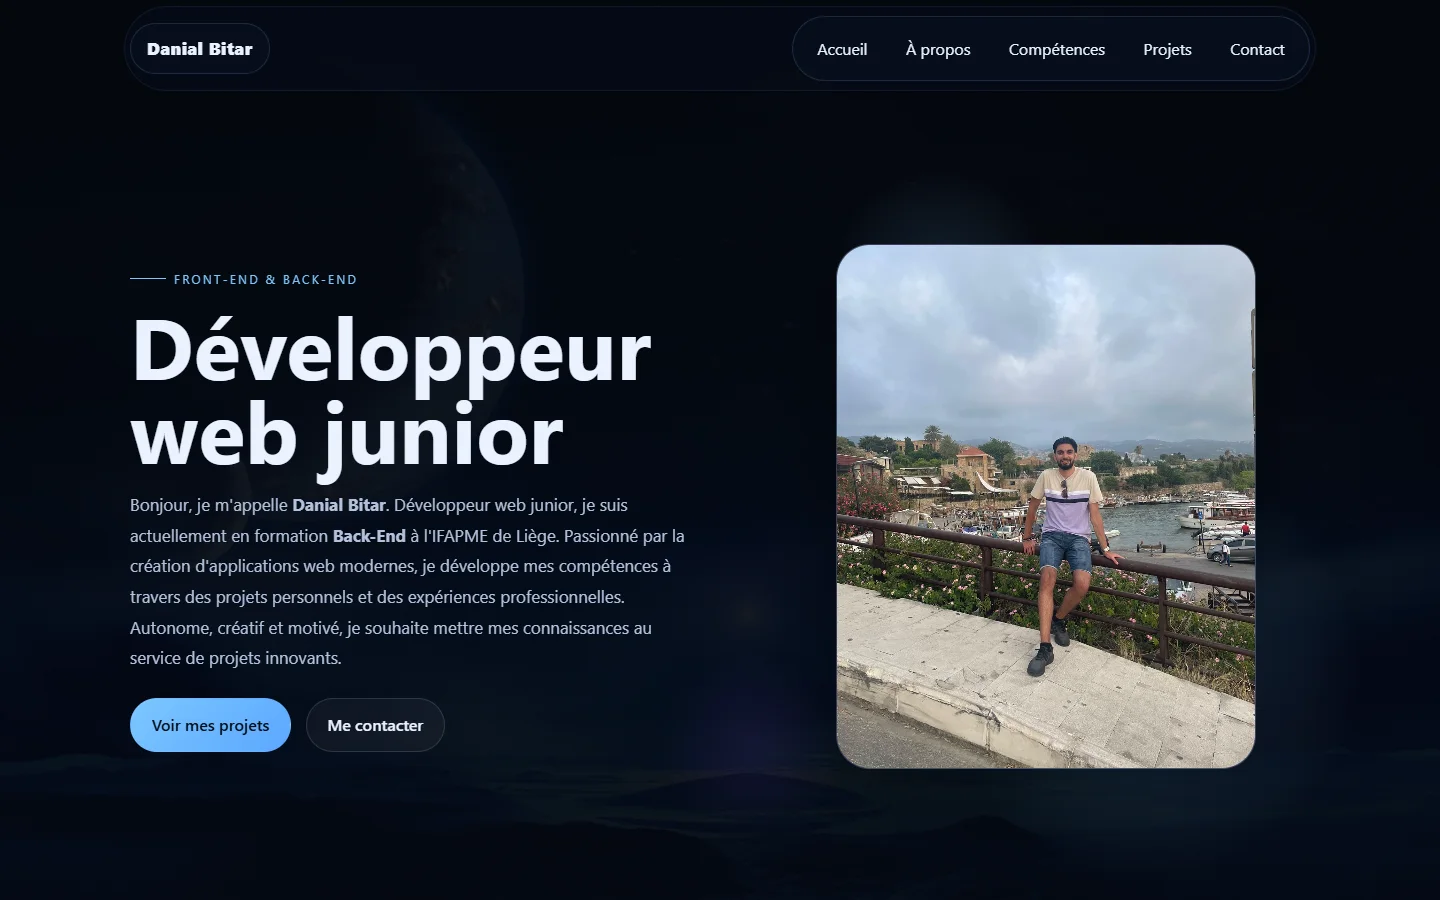
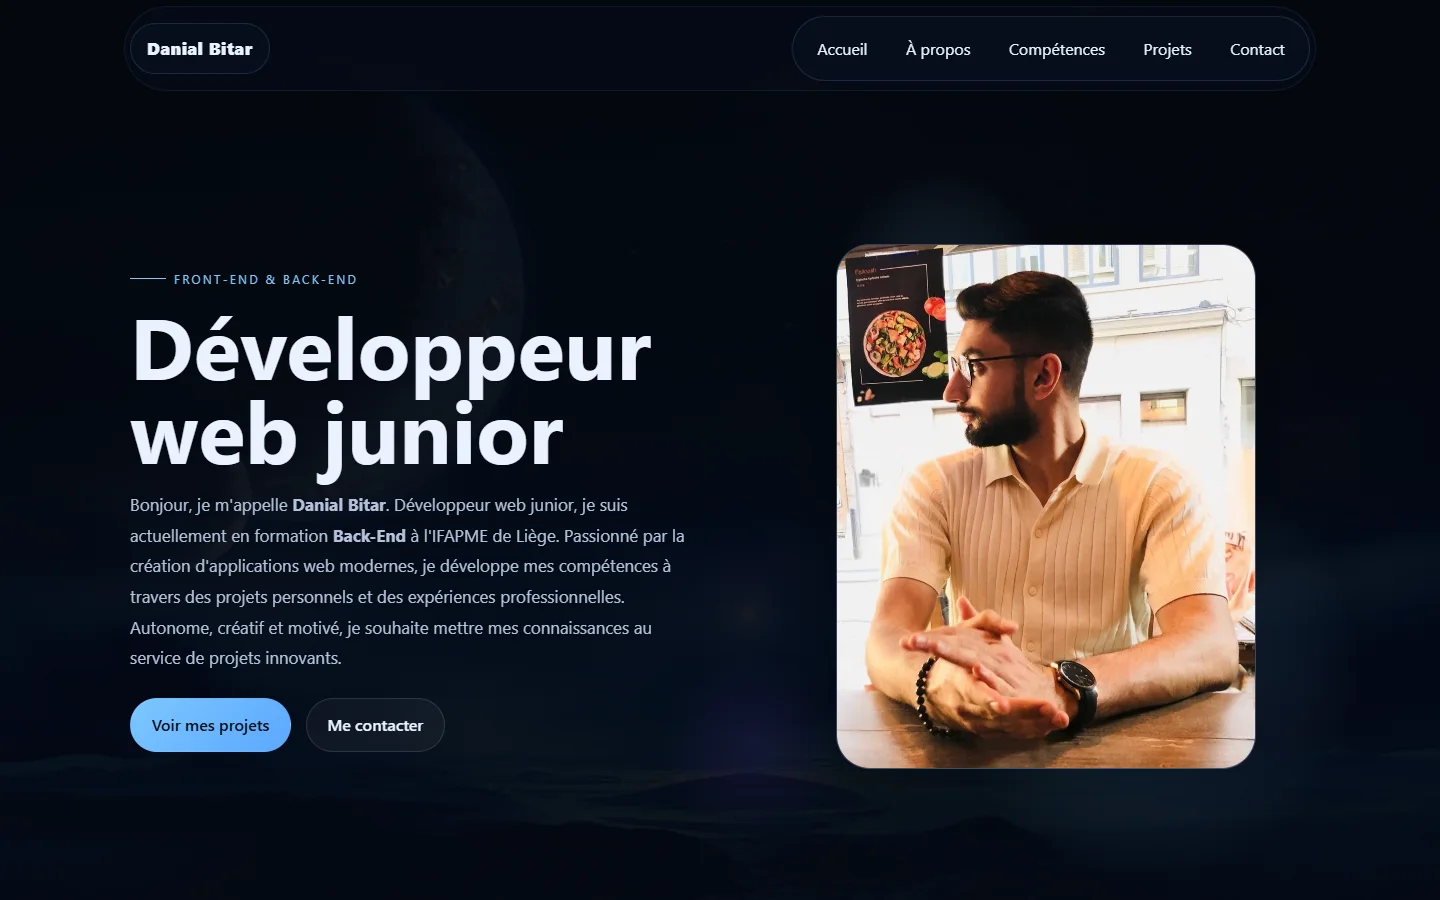
Nouvelle photo de profil

Changed region(s): [[0.5625, 0.2489, 0.875, 0.8711]]

diff --git a/index.html b/index.html
@@ -5,7 +5,7 @@
   <meta name="viewport" content="width=device-width, initial-scale=1.0" />
   <title>Danial Bitar | Portfolio</title>
   <meta name="description" content="Portfolio de Danial Bitar, développeur web junior front-end et back-end basé en Belgique." />
-  <link rel="preload" href="assets/images/maPhoto.jpg" as="image" />
+  <link rel="preload" href="assets/images/maPhoto.jpg?v=2" as="image" />
   <link rel="stylesheet" href="styles.css?v=4" />
 </head>
 <body>
@@ -43,7 +43,7 @@
         </div>
         <div class="hero-visual reveal reveal-zoom reveal-delay-1">
           <div class="portrait-card">
-            <img src="assets/images/maPhoto.jpg" alt="Photo de Danial Bitar" class="portrait" />
+            <img src="assets/images/maPhoto.jpg?v=2" alt="Photo de Danial Bitar" class="portrait" />
           </div>
         </div>
         <div class="hero-glow"></div>
